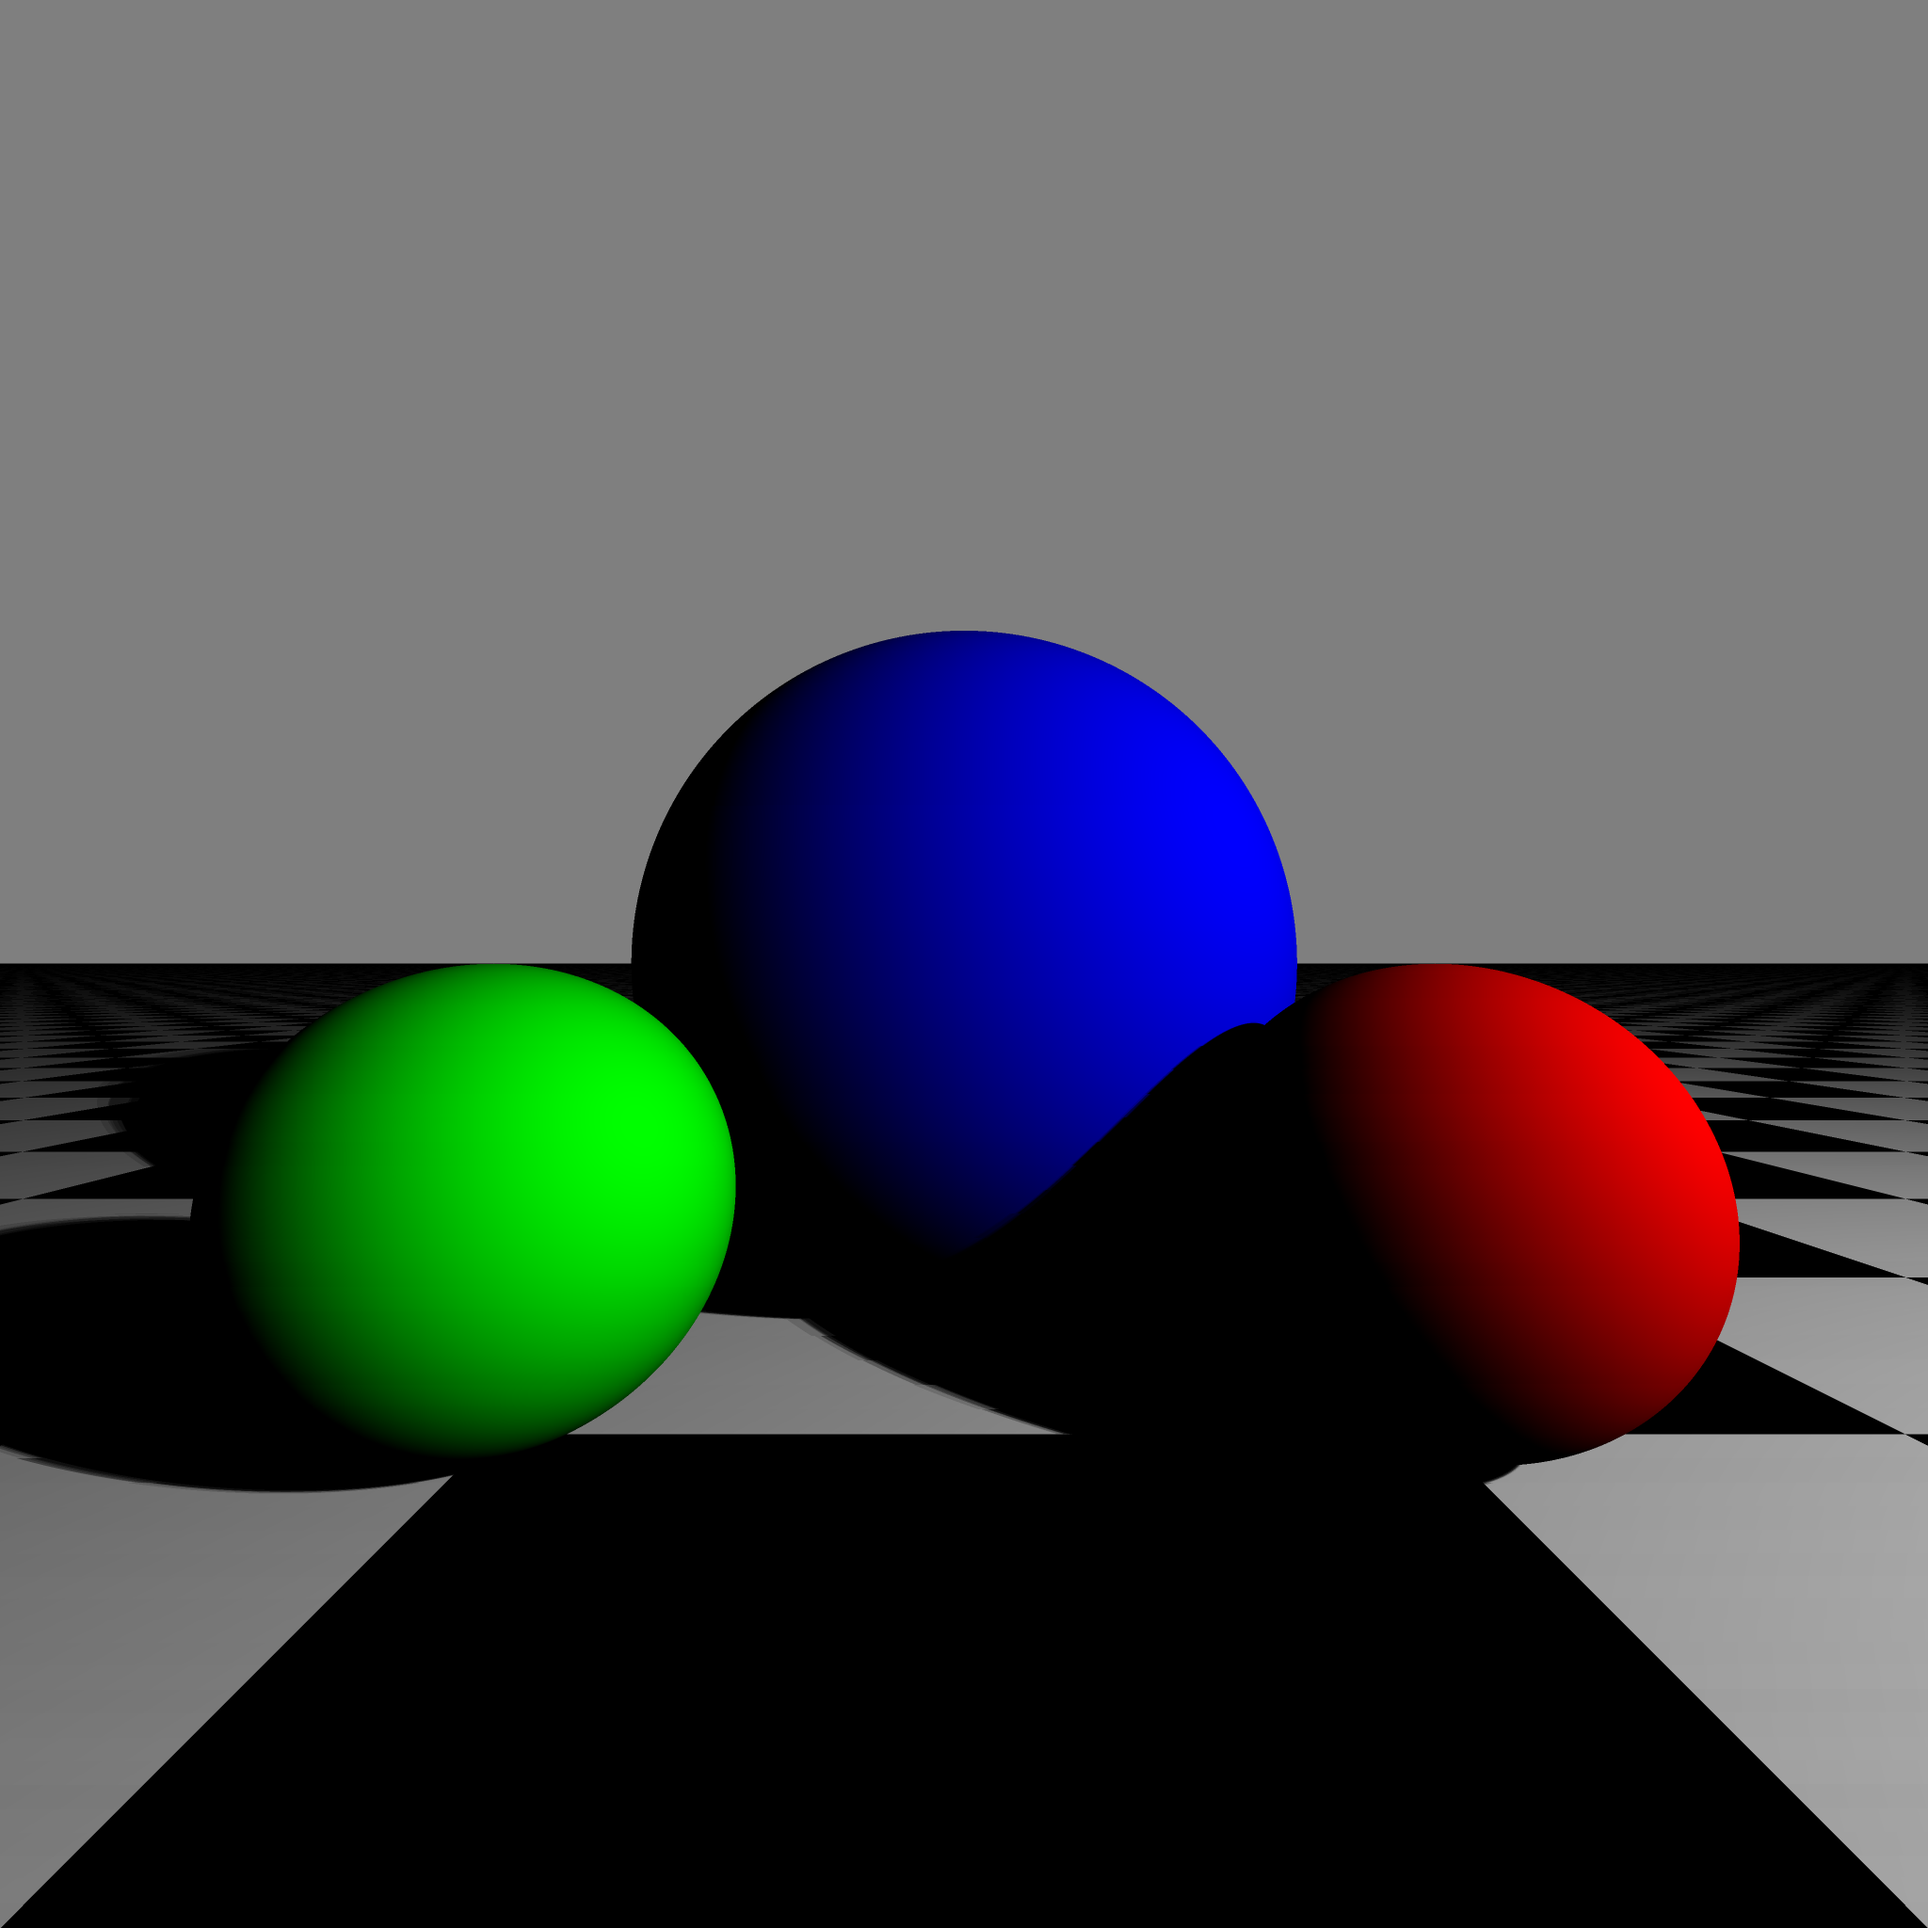
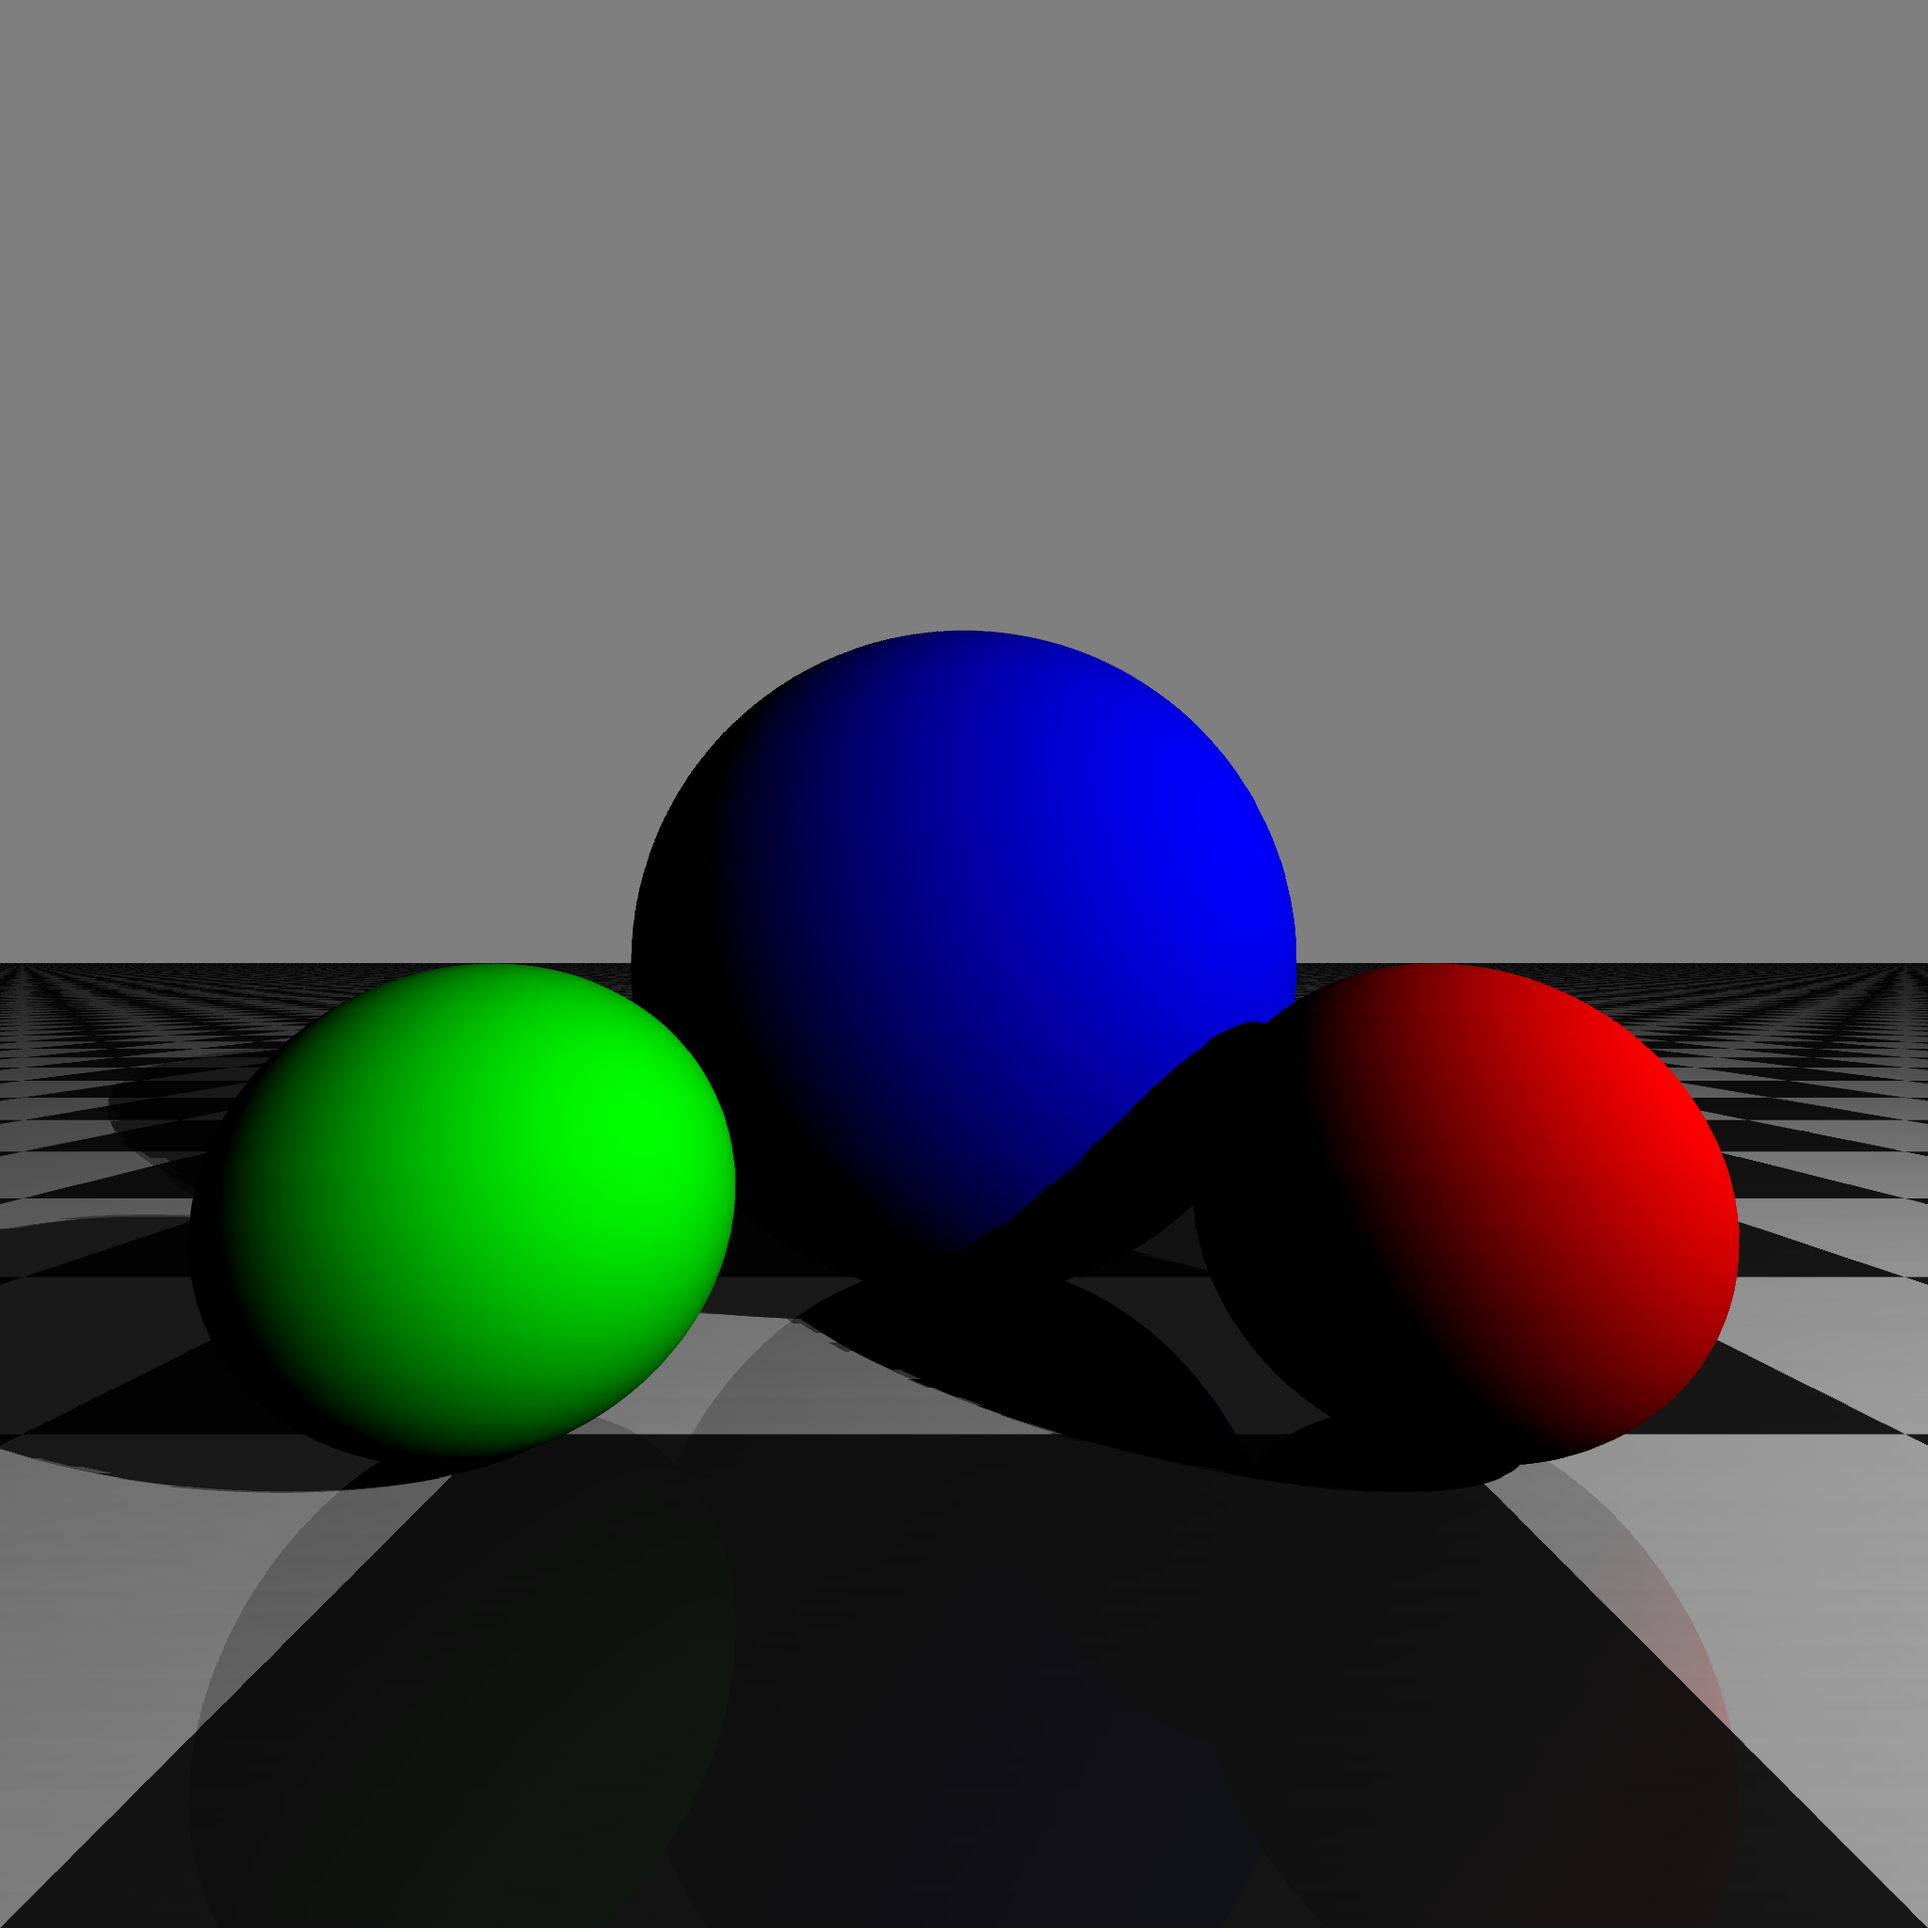
Specularity added + code cleaning + progress bar

diff --git a/main.cpp b/main.cpp
@@ -1,12 +1,5 @@
 #include "main.h"
 
-Vec3 WHITE = Vec3(1);
-Vec3 BLACK = Vec3(0);
-Vec3 RED = Vec3(1, 0, 0);
-Vec3 GREEN = Vec3(0, 1, 0);
-Vec3 BLUE = Vec3(0, 0, 1);
-Vec3 GREY = 0.5 * WHITE + 0.5 * BLACK;
-Vec3 sky = GREY;
 
 bool checkCollisions(
     Ray const &r,
@@ -144,12 +137,13 @@ Vec3 traceShadowRay(Ray const &rayToLight,
 Vec3 castShadowRay(Ray const &normal_ray,
                    Vec3 const &color_surface,
                    std::vector<Object *> const &all_objects,
-                   Sphere const &light)
+                   Sphere const &light,
+                   Options const &option)
 {
 
     Ray rayToLight = Ray(normal_ray.pos, light.pos - normal_ray.pos, normal_ray.color, normal_ray.depth);
 
-    std::vector<Ray> shadowRays = sampleLightPoints(rayToLight, light, 6);
+    std::vector<Ray> shadowRays = sampleLightPoints(rayToLight, light, option.n_ray_shadow);
     Vec3 res_color = Vec3(0);
     for (auto r = shadowRays.begin(); r != shadowRays.end(); r++)
     {
@@ -169,7 +163,8 @@ Vec3 trace(Ray const &r,
     if (r.depth >= option.MAX_DEPTH)
     {
         // return shootToLight(r, light, all_objects, n_objects);
-        return r.color;
+        // return r.color;
+        return sky;
     };
 
     double t_hit = INFINITY;
@@ -178,6 +173,7 @@ Vec3 trace(Ray const &r,
     if (!checkCollisions(r, all_objects, t_hit, hit_object))
     {
         return sky * r.color; // sky-background color;
+        // return sky // sky-background color;
     }
 
     Vec3 hitPoint = r.pos + t_hit * r.dir;
@@ -202,7 +198,14 @@ Vec3 trace(Ray const &r,
     }
     else
     {
-        return castShadowRay(normal_ray, color_surface * r.color, all_objects, light);
+
+        // rougness * shadowColor + (1-rougness) * reflected_color
+        Ray reflected_ray = computeReflectedRay(normal_ray, r);
+        Vec3 color_reflected = trace(reflected_ray, all_objects, light, option);
+        Vec3 color_shadow = castShadowRay(normal_ray, color_surface * r.color, all_objects, light, option);
+
+        return hit_object->roughness * color_shadow + (1 - hit_object->roughness) * color_reflected;
+        // return castShadowRay(normal_ray, color_surface * r.color, all_objects, light);
     }
 }
 
@@ -275,8 +278,9 @@ int main()
     option.WIDTH = 2048;
     option.PIXEL_SIZE = 0.001;
     option.MAX_DEPTH = 4;
-    option.random_alliasing = true;
+    option.random_alliasing = false;
     option.n_ray_per_pixel = 4;
+    option.n_ray_shadow = 1;
 
     std::vector<std::vector<Vec3>> image(option.HEIGHT, std::vector<Vec3>(option.WIDTH));
 
@@ -288,24 +292,27 @@ int main()
     Sphere light = Sphere(Vec3(-2, -4, 3), WHITE, 0.1);
 
     std::vector<Object *> all_objects;
-    all_objects.push_back(new CheckBoard());
-    all_objects.push_back(new Sphere(
-        Vec3(2, 0, 1), BLUE, 1));
-    Sphere *glassSphere = new Sphere(Vec3(1, 1, 0.5), GREEN, 0.5);
-    glassSphere->isGlass = false;
-    glassSphere->opacity = 0.3;
-    all_objects.push_back(glassSphere);
-    Sphere *glassSphere2 = new Sphere(Vec3(1, -1, 0.5), RED, 0.5);
-    glassSphere2->isGlass = false;
-    glassSphere2->opacity = 0.6;
-    all_objects.push_back(glassSphere2);
+    Object *ground = new CheckBoard();
+    Object *sphere1 = new Sphere(Vec3(2, 0, 1), BLUE, 1);
+    Sphere *sphere2 = new Sphere(Vec3(1, 1, 0.5), GREEN, 0.5);
+    Sphere *sphere3 = new Sphere(Vec3(1, -1, 0.5), RED, 0.5);
+
+    ground->roughness = 0.8;
+
+    all_objects.push_back(ground);
+    all_objects.push_back(sphere1);
+    all_objects.push_back(sphere2);
+    all_objects.push_back(sphere3);
 
     // fill the pixel values
+    ProgressBar pbar = ProgressBar(70, option.WIDTH * option.HEIGHT);
+
     for (int i = 0; i < option.HEIGHT; i++)
     {
         for (int j = 0; j < option.WIDTH; j++)
         {
             std::vector<Ray *> rays;
+
             // anti-alliasing :
             if (option.random_alliasing)
             {
@@ -315,6 +322,7 @@ int main()
             {
                 rays = camera.shoot_random_rays(i, j, option.n_ray_per_pixel);
             }
+
             int alliasing_factor = rays.size();
             Vec3 color_pixel = Vec3(0);
             for (int k = 0; k < alliasing_factor; k++)
@@ -325,6 +333,8 @@ int main()
             }
             image[i][j] = color_pixel / alliasing_factor;
             rays.clear();
+
+            pbar.update();
         }
     }
 

diff --git a/main.h b/main.h
@@ -2,6 +2,10 @@
 #include "vector.h"
 #endif
 
+#ifndef COLORS
+#include "colors.h"
+#endif
+
 #ifndef OBJECTS
 #include "objects.h"
 #endif
@@ -9,6 +13,8 @@
 #ifndef CAMERA
 #include "camera.h"
 #endif
+
+#include "progress_bar.h"
 
 #include <vector>
 #include <ctime>
@@ -19,6 +25,7 @@ struct Options
     int MAX_DEPTH;
     int WIDTH;
     int HEIGHT;
+    int n_ray_shadow;
     double PIXEL_SIZE;
     bool random_alliasing;
     int n_ray_per_pixel;
@@ -38,7 +45,8 @@ Vec3 traceShadowRay(Ray const &rayToLight,
                     Ray const &normal_ray,
                     Vec3 const &color_surface,
                     std::vector<Object *> const &all_objects,
-                    Sphere const &light);
+                    Sphere const &light,
+                    Options const &option);
 
 Vec3 castShadowRay(Ray const &normal_ray,
                    Vec3 const &color_surface,

diff --git a/objects.cpp b/objects.cpp
@@ -224,7 +224,7 @@ Vec3 CheckBoard::getColorAt(Vec3 const &pos) const
     tile_x = positive_modulo(tile_x, 2);
     tile_y = positive_modulo(tile_y, 2);
 
-    Vec3 return_color = (tile_x == tile_y) ? Vec3(0) : Vec3(1);
+    Vec3 return_color = (tile_x == tile_y) ? DARK : WHITE;
 
     return return_color;
 }
@@ -337,6 +337,13 @@ int printf(Cube o)
 }
 // =======================================================================
 // MISC
+Ray computeReflectedRay(Ray const &normalRay, Ray const &incommingRay)
+{
+    double dot = normalRay.dir.dot(incommingRay.dir);
+    Vec3 dirReflec = incommingRay.dir - 2 * dot * normalRay.dir;
+    Ray res = Ray(normalRay.pos, dirReflec, normalRay.color, incommingRay.depth + 1);
+    return res;
+}
 
 Ray computeReflectedRay(Ray const &normalRay, Ray const &incommingRay, double const opacity)
 {

diff --git a/progress_bar.cpp b/progress_bar.cpp
@@ -1,0 +1,27 @@
+#include "progress_bar.h"
+
+void ProgressBar::update()
+{
+    if (curr_pass >= num_passes)
+    {
+        std::cout << "Done.";
+    }
+    else
+    {
+        std::cout << "[";
+        curr_pass += 1;
+        progress = double(curr_pass) / num_passes;
+        int pos = barWidth * progress;
+        for (int i = 0; i < barWidth; ++i)
+        {
+            if (i < pos)
+                std::cout << "=";
+            else if (i == pos)
+                std::cout << ">";
+            else
+                std::cout << " ";
+        }
+        std::cout << "] " << int(progress * 100.0) << " %\r";
+        std::cout.flush();
+    }
+}

diff --git a/camera.cpp b/camera.cpp
@@ -40,12 +40,6 @@ void Camera::compute_corners()
     top_left_corner = pos_center - width_vector - height_vector;
     right_dir = first_basis_vec;
     down_dir = second_basis_vec;
-
-    printf("Computed camera corners. Found top left corner at ");
-    printf(top_left_corner);
-    printf("\n and camera center at ");
-    printf(pos_center);
-    printf("\n");
 };
 
 Camera::Camera(Vec3 pos, Vec3 focal, float px_size, int width_, int height_)

diff --git a/objects.h b/objects.h
@@ -1,7 +1,13 @@
 #ifndef OBJECTS
 #define OBJECTS
 
+#ifndef COLORS
+#include "colors.h"
+#endif
+
+#ifndef VEC
 #include "vector.h"
+#endif
 
 class Ray
 {
@@ -28,6 +34,7 @@ public:
     Vec3 pos;
     bool isGlass = false;
     double opacity = 1;
+    double roughness = 1;
     double s; // scale
     // Mat4 rotMat ; // rotation matrix world to local;
 

diff --git a/progress_bar.h b/progress_bar.h
@@ -1,0 +1,16 @@
+#ifndef IOSTREAM
+#define IOSTREAM
+#include <iostream>
+#endif
+
+class ProgressBar
+{
+public:
+    int barWidth;
+    float progress = 0;
+    int curr_pass = 0;
+    int num_passes;
+
+    ProgressBar(int b, int n) : barWidth(b), num_passes(n){};
+    void update();
+};

diff --git a/colors.h b/colors.h
@@ -1,0 +1,24 @@
+#ifndef COLORS
+#define COLORS
+
+#ifndef VEC
+#include "vector.h"
+#endif
+
+extern Vec3 WHITE;
+
+extern Vec3 BLACK;
+
+extern Vec3 RED;
+
+extern Vec3 GREEN;
+
+extern Vec3 BLUE;
+
+extern Vec3 GREY;
+
+extern Vec3 DARK;
+
+extern Vec3 sky;
+
+#endif

diff --git a/colors.cpp b/colors.cpp
@@ -1,0 +1,10 @@
+#include "colors.h"
+
+Vec3 WHITE = Vec3(1);
+Vec3 BLACK = Vec3(0);
+Vec3 RED = Vec3(1, 0, 0);
+Vec3 GREEN = Vec3(0, 1, 0);
+Vec3 BLUE = Vec3(0, 0, 1);
+Vec3 GREY = Vec3(0.5);
+Vec3 DARK = 0.70 * BLACK + 0.30 * GREY;
+Vec3 sky = GREY;
